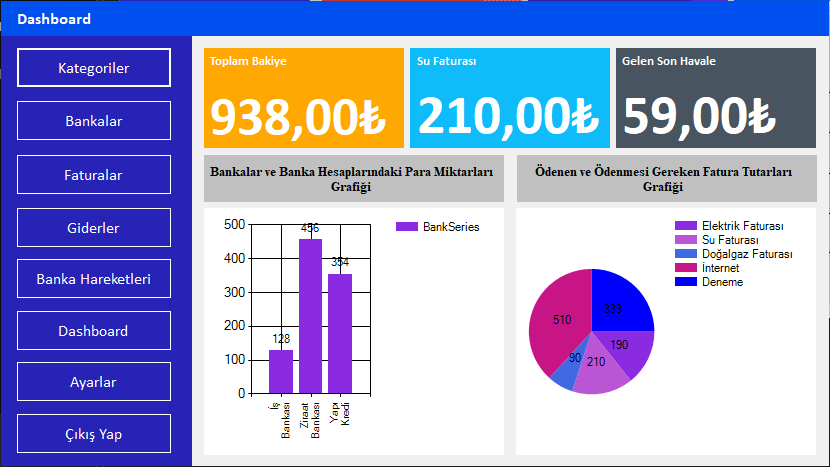
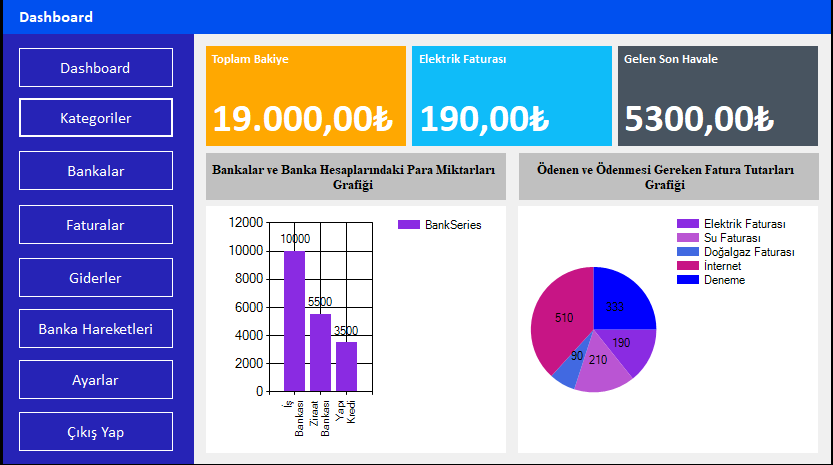
screenshots fix.

diff --git a/FinancialCrm/FrmDashboard.Designer.cs b/FinancialCrm/FrmDashboard.Designer.cs
@@ -76,11 +76,11 @@
             // lblLastBankProcessAmount
             // 
             this.lblLastBankProcessAmount.AutoSize = true;
-            this.lblLastBankProcessAmount.Font = new System.Drawing.Font("Calibri", 42F, System.Drawing.FontStyle.Bold);
+            this.lblLastBankProcessAmount.Font = new System.Drawing.Font("Calibri", 30F, System.Drawing.FontStyle.Bold);
             this.lblLastBankProcessAmount.ForeColor = System.Drawing.Color.White;
-            this.lblLastBankProcessAmount.Location = new System.Drawing.Point(-6, 32);
+            this.lblLastBankProcessAmount.Location = new System.Drawing.Point(-3, 47);
             this.lblLastBankProcessAmount.Name = "lblLastBankProcessAmount";
-            this.lblLastBankProcessAmount.Size = new System.Drawing.Size(168, 68);
+            this.lblLastBankProcessAmount.Size = new System.Drawing.Size(121, 49);
             this.lblLastBankProcessAmount.TabIndex = 8;
             this.lblLastBankProcessAmount.Text = "0,00 ₺";
             // 
@@ -98,11 +98,11 @@
             // lblBillAmount
             // 
             this.lblBillAmount.AutoSize = true;
-            this.lblBillAmount.Font = new System.Drawing.Font("Calibri", 42F, System.Drawing.FontStyle.Bold);
+            this.lblBillAmount.Font = new System.Drawing.Font("Calibri", 30F, System.Drawing.FontStyle.Bold);
             this.lblBillAmount.ForeColor = System.Drawing.Color.White;
-            this.lblBillAmount.Location = new System.Drawing.Point(-5, 32);
+            this.lblBillAmount.Location = new System.Drawing.Point(-2, 47);
             this.lblBillAmount.Name = "lblBillAmount";
-            this.lblBillAmount.Size = new System.Drawing.Size(168, 68);
+            this.lblBillAmount.Size = new System.Drawing.Size(121, 49);
             this.lblBillAmount.TabIndex = 7;
             this.lblBillAmount.Text = "0,00 ₺";
             // 
@@ -130,11 +130,11 @@
             // lblTotalBalance
             // 
             this.lblTotalBalance.AutoSize = true;
-            this.lblTotalBalance.Font = new System.Drawing.Font("Calibri", 40F, System.Drawing.FontStyle.Bold);
+            this.lblTotalBalance.Font = new System.Drawing.Font("Calibri", 30F, System.Drawing.FontStyle.Bold, System.Drawing.GraphicsUnit.Point, ((byte)(162)));
             this.lblTotalBalance.ForeColor = System.Drawing.Color.White;
-            this.lblTotalBalance.Location = new System.Drawing.Point(-5, 35);
+            this.lblTotalBalance.Location = new System.Drawing.Point(-3, 47);
             this.lblTotalBalance.Name = "lblTotalBalance";
-            this.lblTotalBalance.Size = new System.Drawing.Size(162, 66);
+            this.lblTotalBalance.Size = new System.Drawing.Size(121, 49);
             this.lblTotalBalance.TabIndex = 6;
             this.lblTotalBalance.Text = "0,00 ₺";
             // 
